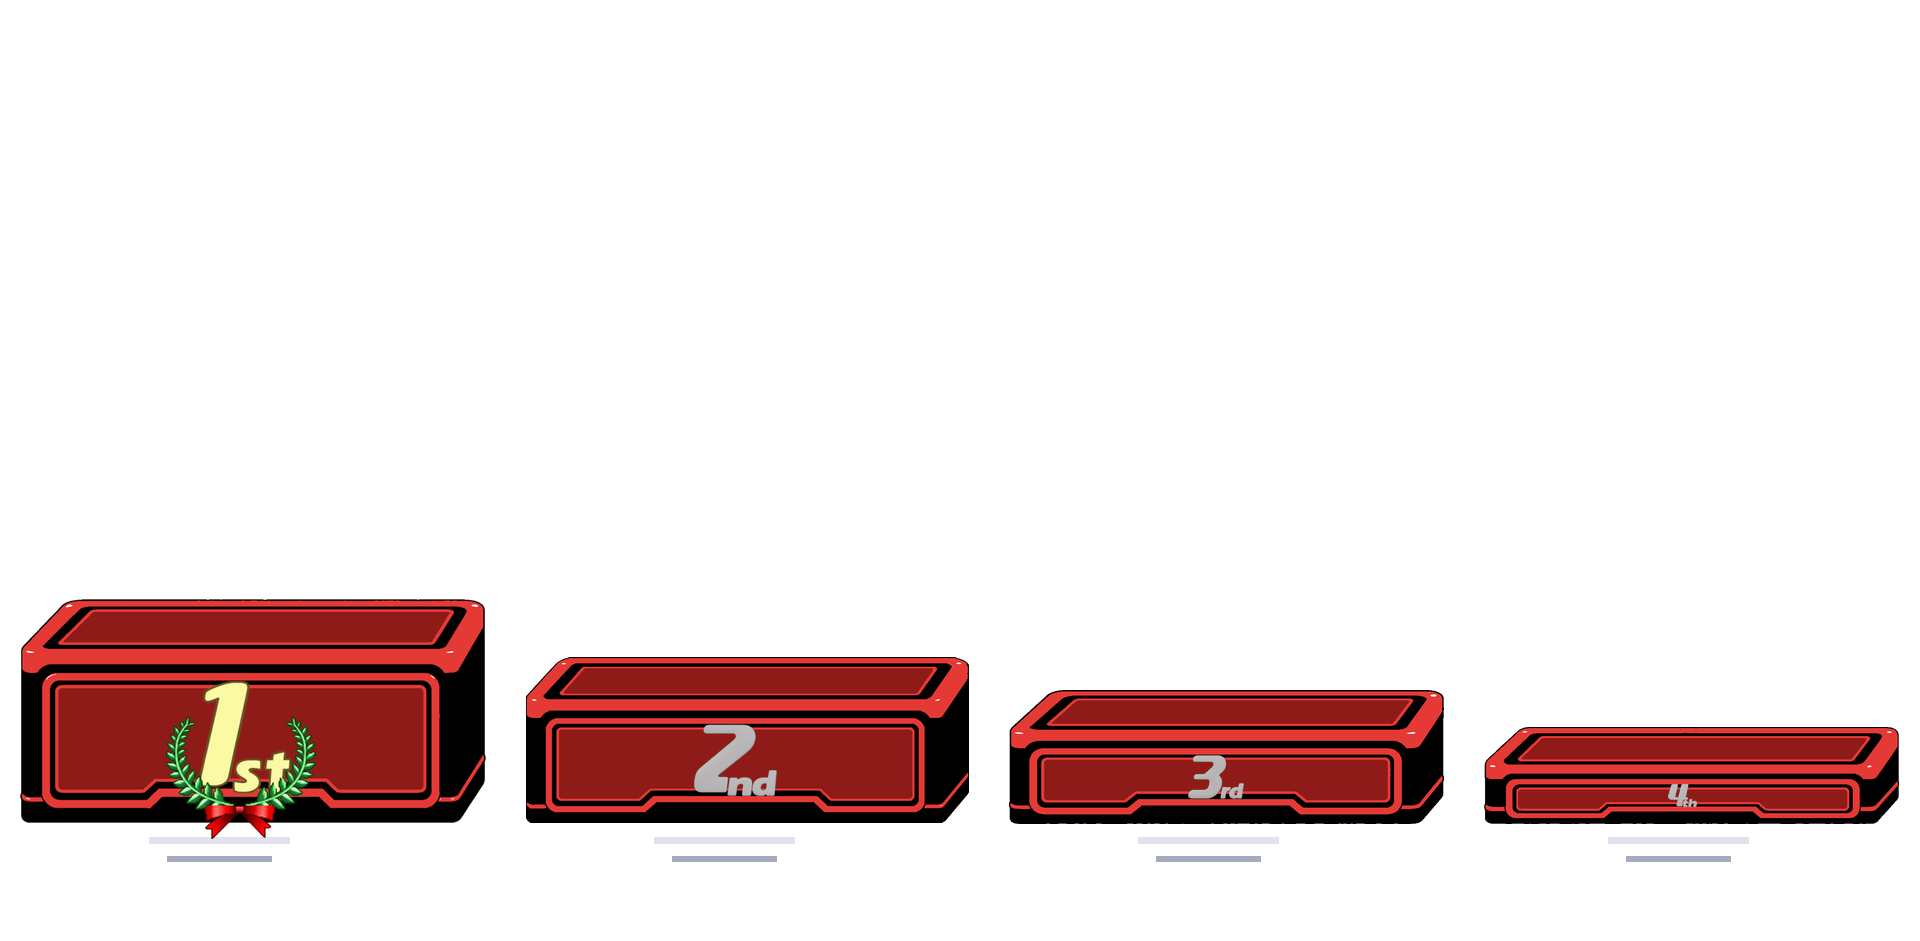
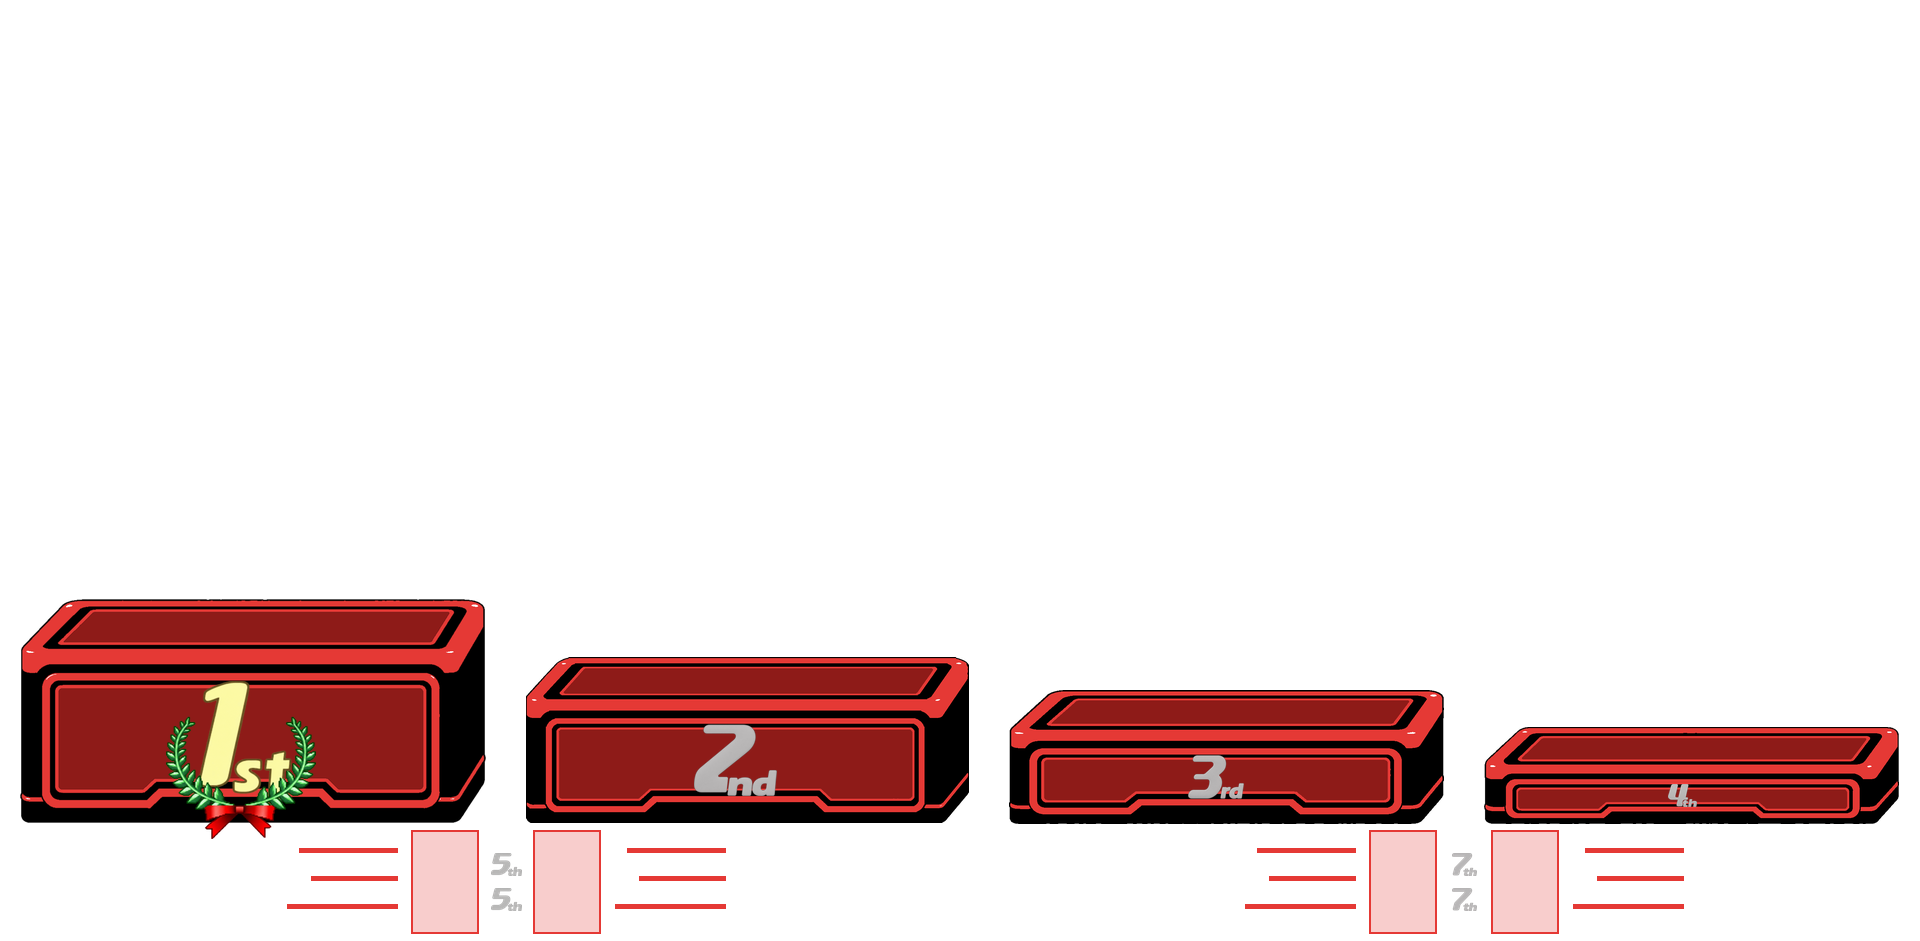
fixing watermark on new top 8 doubles podium and fixing previews

Changed region(s): [[0.5938, 0.8629, 0.9062, 1.0], [0.0938, 0.8629, 0.4062, 1.0]]

diff --git a/frontend/src/LayeredFormatPreview.tsx b/frontend/src/LayeredFormatPreview.tsx
@@ -2,6 +2,7 @@ import { useEffect, useMemo, useRef, useState } from "react";
 import { apiUrl, recordDownload } from "./api";
 import { previewDownloadName } from "./previewDownload";
 import { drawRadialWatermark } from "./radialWatermark";
+import { drawPodiumPreviewFooter, podiumHeaderWithoutFooter } from "./podiumPreviewFooter";
 import { FormatImageInfo } from "./BackgroundPositionDialog";
 import { EntrantDraft, TournamentDetails } from "./creationData";
 import { FavoriteCharacter } from "./favorites";
@@ -394,12 +395,14 @@ export default function LayeredFormatPreview({ format, backgroundImage, logoImag
         }
         if (format.selection.mode === "radial") drawLogo(context, format, logo, logoImage, request.outputSize, request.logoPosition, request.logoBox);
         if (logoPlaceholder) context.drawImage(logoPlaceholder, 0, 0, request.outputSize.width, request.outputSize.height);
-        const headerLayer = logo && format.selection.mode !== "radial" ? headerWithoutPlaceholder(header, request.logoBox) : header;
+        let headerLayer: CanvasImageSource = logo && format.selection.mode !== "radial" ? headerWithoutPlaceholder(header, request.logoBox) : header;
+        if (isPodiumsClapping(format.selection)) headerLayer = podiumHeaderWithoutFooter(headerLayer, header.naturalWidth, header.naturalHeight);
         const headerHeight = format.selection.mode === "podium" ? 941 : request.outputSize.height;
         context.drawImage(tintedHeader(headerLayer, request.outputSize.width, headerHeight, format.text_settings.heading_color, format.text_settings.heading_metallic), 0, 0);
         if (resultLabels) context.drawImage(resultLabels, 0, 0, request.outputSize.width, request.outputSize.height);
         if (format.selection.mode !== "radial") drawLogo(context, format, logo, logoImage, request.outputSize, request.logoPosition, request.logoBox);
         if (watermark) drawRadialWatermark(context, watermark, format.selection.options.event_format === "doubles");
+        if (isPodiumsClapping(format.selection)) drawPodiumPreviewFooter(context, header, request.outputSize);
         setLoading(false);
       } catch {
         if (!cancelled) { setFailed(true); setLoading(false); }

diff --git a/frontend/src/podiumPreviewFooter.ts b/frontend/src/podiumPreviewFooter.ts
@@ -1,0 +1,28 @@
+/** Keep the shared header's footer at the bottom of taller clapping canvases. */
+const FOOTER_STRIP_HEIGHT = 45;
+
+export function podiumHeaderWithoutFooter(source: CanvasImageSource, width: number, height: number): HTMLCanvasElement {
+  const layer = document.createElement("canvas");
+  layer.width = width;
+  layer.height = height;
+  const context = layer.getContext("2d");
+  if (context) {
+    context.drawImage(source, 0, 0);
+    context.clearRect(0, height - FOOTER_STRIP_HEIGHT, width, FOOTER_STRIP_HEIGHT);
+  }
+  return layer;
+}
+
+export function drawPodiumPreviewFooter(context: CanvasRenderingContext2D, header: HTMLImageElement, output: { width: number; height: number }): void {
+  const layer = document.createElement("canvas");
+  layer.width = header.naturalWidth;
+  layer.height = FOOTER_STRIP_HEIGHT;
+  const footer = layer.getContext("2d");
+  if (!footer) return;
+  footer.drawImage(header, 0, header.naturalHeight - FOOTER_STRIP_HEIGHT, header.naturalWidth, FOOTER_STRIP_HEIGHT,
+                   0, 0, header.naturalWidth, FOOTER_STRIP_HEIGHT);
+  footer.globalCompositeOperation = "source-in";
+  footer.fillStyle = "#FFFFFF40";
+  footer.fillRect(0, 0, layer.width, layer.height);
+  context.drawImage(layer, 0, output.height - FOOTER_STRIP_HEIGHT, output.width, FOOTER_STRIP_HEIGHT);
+}

diff --git a/frontend/src/Footer.tsx b/frontend/src/Footer.tsx
@@ -17,7 +17,7 @@ function Footer({ renderCount }: FooterProps) {
     <>
       <footer className="site-footer">
         <div>
-          V7.3 10/14/2026 
+          V7.4 10/14/2026 
           {" "}●{" "}
           {count} created
           {" "}●{" "}

diff --git a/clapping_preview_layers.py b/clapping_preview_layers.py
@@ -9,10 +9,11 @@ from PIL import Image, ImageDraw
 from creation_modes import CreationMode, ModeOptions, ModeSelection, PodiumStyle
 from clapping_colors import top16_player_colors, legacy_top16_text_slot
 from extended_clapping_renderer import PROFILE
+from podiums_clapping_renderer import PROFILE as TOP8_PROFILE
 from formatting_assets import FormattingAssetRenderer, draw_placement_tags
 from mode_preferences import ModePreferenceRepository, PlacementTagPlacement
 from models import TournamentFormat
-from preview_layers import _customizable_colors
+from preview_layers import _customizable_colors, _repeat_colors
 from podium_colors import PodiumColorConfiguration, PodiumColorPreset
 
 
@@ -20,19 +21,28 @@ EXTENDED_CLAPPING_LAYOUTS = {
     "doubles_top_8_four_podium": (TournamentFormat.DOUBLES, 8, "four_podium"),
     "singles_top_16_clapping": (TournamentFormat.SINGLES, 16, "clapping"),
 }
+CLAPPING_LAYOUTS = {
+    "singles_top_8_four_podium": (TournamentFormat.SINGLES, 8, "four_podium"),
+    **EXTENDED_CLAPPING_LAYOUTS,
+}
 
 
 def render_extended_clapping_layer(style, layout_id, color_id=None):
-    event_format, count, variant = EXTENDED_CLAPPING_LAYOUTS[layout_id]
+    event_format, count, variant = CLAPPING_LAYOUTS[layout_id]
     selection = ModeSelection(CreationMode.PODIUM, ModeOptions(event_format, count, variant, style))
     preferences = ModePreferenceRepository().load(selection)
     canvas = Image.new("RGBA", preferences.canvas_size.as_tuple(), "#00000000")
     colors = _customizable_colors(color_id or "smash_player_colors", 8) if style is PodiumStyle.CUSTOMIZABLE else None
+    if colors is not None and variant == "four_podium" and color_id == "rainbow":
+        four_colors = _customizable_colors("rainbow", 4)
+        colors = _repeat_colors(tuple(four_colors.color_for_slot(slot) for slot in range(1, 5)), 8)
     top16 = layout_id == "singles_top_16_clapping"
     if top16 and style is PodiumStyle.CUSTOMIZABLE and color_id in {None, "smash_player_colors"}:
         colors = top16_player_colors(colors)
     result = FormattingAssetRenderer().draw(canvas, preferences, colors)
-    profile = json.loads(PROFILE.read_text(encoding="utf-8"))["layouts"][layout_id][style.value]
+    profile = (json.loads(TOP8_PROFILE.read_text(encoding="utf-8"))["styles"][style.value]
+               if layout_id == "singles_top_8_four_podium"
+               else json.loads(PROFILE.read_text(encoding="utf-8"))["layouts"][layout_id][style.value])
     draw = ImageDraw.Draw(result)
     for panel in profile["panels"]:
         slot = panel["entrant_slot"]
@@ -58,13 +68,14 @@ def render_extended_clapping_layer(style, layout_id, color_id=None):
     return result
 
 
-def generate_extended_clapping_layers(output_root: Path):
+def generate_extended_clapping_layers(output_root: Path, *, include_top8: bool = True):
     paths = []
-    for layout_id in EXTENDED_CLAPPING_LAYOUTS:
+    for layout_id in (CLAPPING_LAYOUTS if include_top8 else EXTENDED_CLAPPING_LAYOUTS):
+        asset_layout_id = "top_8_four_podiums" if layout_id == "singles_top_8_four_podium" else layout_id
         for style in PodiumStyle:
             for color_id in ((None,) if style is PodiumStyle.LEGACY else ("smash_player_colors", "olympic_medals", "rainbow", "custom_red")):
                 path = output_root / "podiums" / style.value / (
-                    f"{layout_id}.png" if color_id is None else f"{layout_id}/{color_id}.png")
+                    f"{asset_layout_id}.png" if color_id is None else f"{asset_layout_id}/{color_id}.png")
                 path.parent.mkdir(parents=True, exist_ok=True)
                 render_extended_clapping_layer(style, layout_id, color_id).save(path, optimize=True)
                 paths.append(path)

diff --git a/preview_layers.py b/preview_layers.py
@@ -2,7 +2,6 @@
 
 from __future__ import annotations
 
-from dataclasses import replace
 from itertools import permutations
 from pathlib import Path
 
@@ -12,7 +11,7 @@ from background_builder import BackgroundRequest, PixelSize
 from creation import CreationRequest, TextSettings
 from creation_modes import CreationMode, ModeOptions, ModeSelection, PodiumStyle
 from DrawPodium import PodiumFont, PodiumMode
-from formatting_assets import FormattingAssetRenderer, draw_placement_tags
+from formatting_assets import FormattingAssetRenderer
 from geometric_content_renderer import (
     EyesContentRenderer,
     SquaresContentRenderer,
@@ -262,6 +261,9 @@ def _customizable_colors(layer_id: str, asset_count: int) -> PodiumColorConfigur
 
 
 def render_podium_layer(style: PodiumStyle, layout_id: str, color_id: str | None = None) -> Image.Image:
+    if layout_id == "top_8_four_podiums":
+        from clapping_preview_layers import render_extended_clapping_layer
+        return render_extended_clapping_layer(style, "singles_top_8_four_podium", color_id)
     entrant_count, variant = LAYOUTS[layout_id]
     selection = ModeSelection(
         CreationMode.PODIUM,
@@ -278,19 +280,7 @@ def render_podium_layer(style: PodiumStyle, layout_id: str, color_id: str | None
     if style is PodiumStyle.CUSTOMIZABLE:
         asset_count = 4 if variant == "four_podium" else entrant_count
         colors = _customizable_colors(color_id or "smash_player_colors", asset_count)
-    formatting_preferences = replace(preferences, placement_tags=()) if variant == "four_podium" else preferences
-    result = FormattingAssetRenderer().draw(canvas, formatting_preferences, colors)
-    if variant == "four_podium":
-        draw = ImageDraw.Draw(result)
-        for placement in preferences.text_slots:
-            if placement.field != "entrant.summary":
-                continue
-            x, y = placement.anchor.x, placement.anchor.y
-            half_width = min(70, placement.max_width // 2)
-            draw.line((x - half_width, y - 8, x + half_width, y - 8), fill="#D8DCE8CC", width=7)
-            draw.line((x - half_width + 18, y + 10, x + half_width - 18, y + 10), fill="#8E95AFCC", width=6)
-        draw_placement_tags(result, preferences)
-    return result
+    return FormattingAssetRenderer().draw(canvas, preferences, colors)
 
 
 def render_square_layer(layout_id: str, color_id: str) -> Image.Image:
@@ -445,7 +435,7 @@ def generate_preview_layers(output_root: Path) -> list[Path]:
     outputs.extend(generate_square_preview_layers(output_root))
     outputs.extend(generate_eye_preview_layers(output_root))
     from clapping_preview_layers import generate_extended_clapping_layers
-    outputs.extend(generate_extended_clapping_layers(output_root))
+    outputs.extend(generate_extended_clapping_layers(output_root, include_top8=False))
     from radial_preview_layers import generate_radial_preview_layers
     outputs.extend(generate_radial_preview_layers(output_root))
     return outputs

diff --git a/test/preview_layers_test.py b/test/preview_layers_test.py
@@ -6,6 +6,7 @@ import unittest
 from pathlib import Path
 
 from PIL import Image
+import json
 
 from preview_layers import (
     HEADER_CONTENTS,
@@ -24,6 +25,19 @@ LAYER_ROOT = PROJECT_ROOT / "frontend" / "public" / "format_preview_layers"
 
 
 class PreviewLayerTests(unittest.TestCase):
+    def test_top8_clapping_layers_show_calibrated_portrait_boxes_and_text_guides(self):
+        profile = json.loads((PROJECT_ROOT / "preferences/portraits/podiums_clapping.json").read_text())
+        for style in ("legacy", "customizable"):
+            path = LAYER_ROOT / "podiums" / style / (
+                "top_8_four_podiums.png" if style == "legacy" else "top_8_four_podiums/smash_player_colors.png")
+            with Image.open(path) as layer:
+                for panel in profile["styles"][style]["panels"]:
+                    left, top, right, bottom = panel["portrait_rect"]
+                    self.assertEqual(layer.getpixel((left, top))[3], 255)
+                    self.assertEqual(layer.getpixel(((left + right) // 2, (top + bottom) // 2))[3], 64)
+                    text_x = panel["text_x"] - 55 if panel["text_alignment"] == "right" else panel["text_x"] + 55
+                    self.assertEqual(layer.getpixel((text_x, top + 76))[3], 255)
+
     def test_generated_layer_inventory_is_complete(self) -> None:
         files = tuple(LAYER_ROOT.rglob("*.png"))
         self.assertEqual(len(files), 323)

diff --git a/generate_preview_layers.py b/generate_preview_layers.py
@@ -31,7 +31,7 @@ if __name__ == "__main__":
         help="Regenerate only Eyes preset and header layers.",
     )
     parser.add_argument("--radial-only", action="store_true", help="Regenerate only Radial slice and center-header layers.")
-    parser.add_argument("--extended-clapping-only", action="store_true", help="Regenerate only Doubles Top 8 and Singles Top 16 clapping layers.")
+    parser.add_argument("--extended-clapping-only", action="store_true", help="Regenerate all Singles and Doubles clapping preview layers.")
     args = parser.parse_args()
     root = Path(__file__).resolve().parent / "frontend" / "public" / "format_preview_layers"
     if sum((args.squares_only, args.eyes_only, args.eyes_colors_only, args.radial_only, args.extended_clapping_only)) > 1:

diff --git a/AGENTS.md b/AGENTS.md
@@ -49,6 +49,7 @@
 - Pre-generate 18 transparent header layers: all six bijective header arrangements for each of Tyrowo, Impact, and Ubuntu. Each shows representative title and metadata content plus a boxed X in the logo position. Generate these at the canonical preview size and scale them to the selected podium canvas during browser composition.
 - Pre-generate transparent podium-only layers for Top 3, Top 4, Top 8, and Top 8 with four podiums. Legacy has one layer per layout. Customizable has Smash Player Colors, Olympic Medals, Rainbow, and an all-red stand-in for user-selected colors for each layout. Four-podium Top 8 uses thick guide lines under the podiums to represent its omitted lower-result text and icons.
 - The browser debounces and composites cached layers immediately over the selected background color/image and replaces the header placeholder with the selected logo. Cache loaded layer images by URL. Do not process-cache or request fully built generalized previews.
+- All Podiums+Clapping fast previews use colored portrait-frame placeholders and three player-identity guide lines from their calibrated panel geometry, including Singles Top 8. Keep the clapping preview watermark separate from the shared 941px header layer and anchor it to the actual output canvas bottom so taller Doubles Top 8 and Singles Top 16 canvases do not retain a watermark at the old image edge.
 - Keep `Refresh Format Preview` as an uncached exact-render action for custom font files and exact user-selected podium colors. It uses completed live Tournament and Entrants data when available and falls back to sample data for unfinished sections. Track the complete settings, assets, tournament, and visible-entrant signature and emphasize Refresh whenever the exact render is stale.
 - Format begins with Podiums selected. Podiums, Eyes, and Squares are all enabled. Their image-type choices show compact example thumbnails: Podium Singles Top 4, Eyes Singles Top 8, and Squares Singles Top 8. Podium formats require an explicit Legacy or Customizable choice, and every format requires an explicit Singles or Doubles choice.
 - Included-result choices depend on mode and bracket type. Podium Singles supports Top 3, Top 4, Top 8, Podiums+Clapping Top 8 (four podiums), and Top 16 + Clapping (eight podiums); Podium Doubles supports Top 3, Top 4, and Podiums+Clapping Top 8. Reviewed Eyes choices are Singles tournament Top 8 and Top 16, Singles PR Top 10/15/20/25, and Doubles Top 3/4. Squares supports Singles Top 8 and Doubles Top 3/4.
